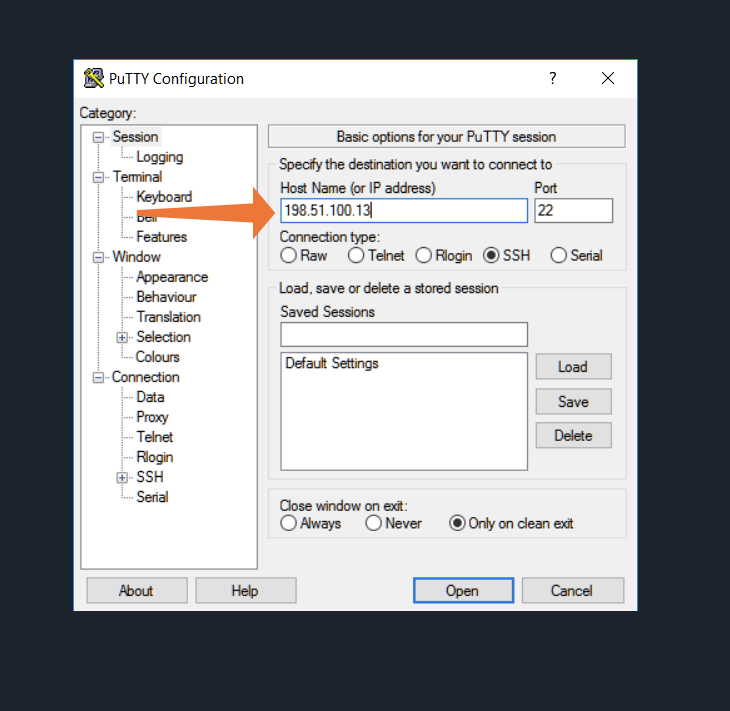
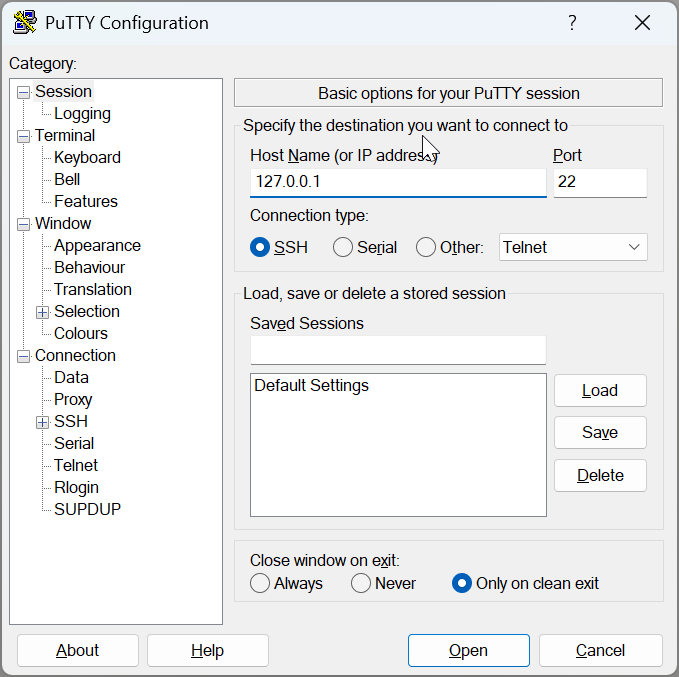
Deployed eeed5d2 with MkDocs version: 1.6.0

diff --git a/ssh/index.html b/ssh/index.html
@@ -160,6 +160,8 @@ During the connection process, the client provides authentication credentials to
 <h3 id="example">Example<a class="headerlink" href="#example" title="Permanent link">&para;</a></h3>
 <p>Download a <a download="download" href="https://www.chiark.greenend.org.uk/~sgtatham/putty/latest.html">putty application</a></p>
 <p><img alt="poster" src="/img/putty1.png" /></p>
+<p><img alt="poster" src="/img/putty2.png" /></p>
+<p><img alt="poster" src="/img/putty3.png" /></p>
 <h1 id="what-is-mqtt">What is MQTT<a class="headerlink" href="#what-is-mqtt" title="Permanent link">&para;</a></h1></div>
         
         

diff --git a/index.html b/index.html
@@ -495,5 +495,5 @@ OnOff       On:0       Off:1
 
 <!--
 MkDocs version : 1.6.0
-Build Date UTC : 2024-12-27 06:32:02.483472+00:00
+Build Date UTC : 2024-12-27 08:10:54.384371+00:00
 -->
